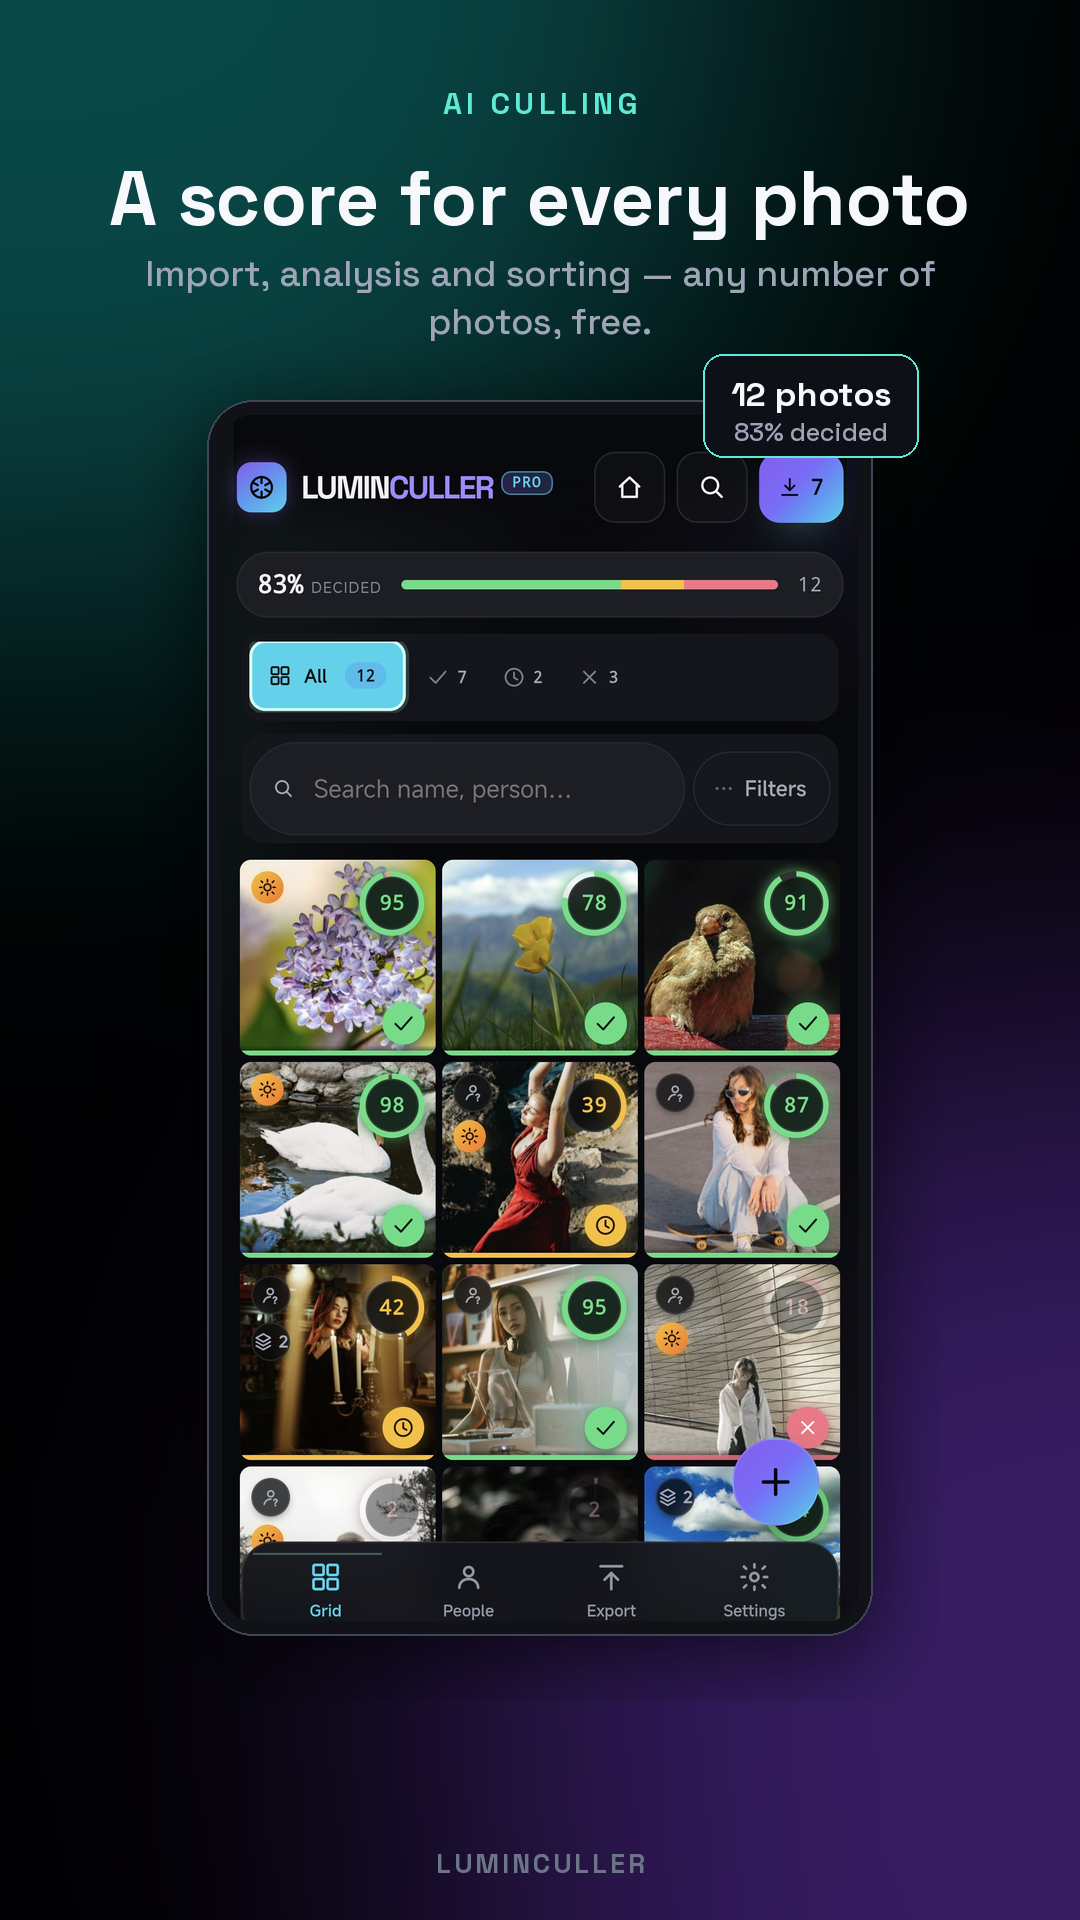
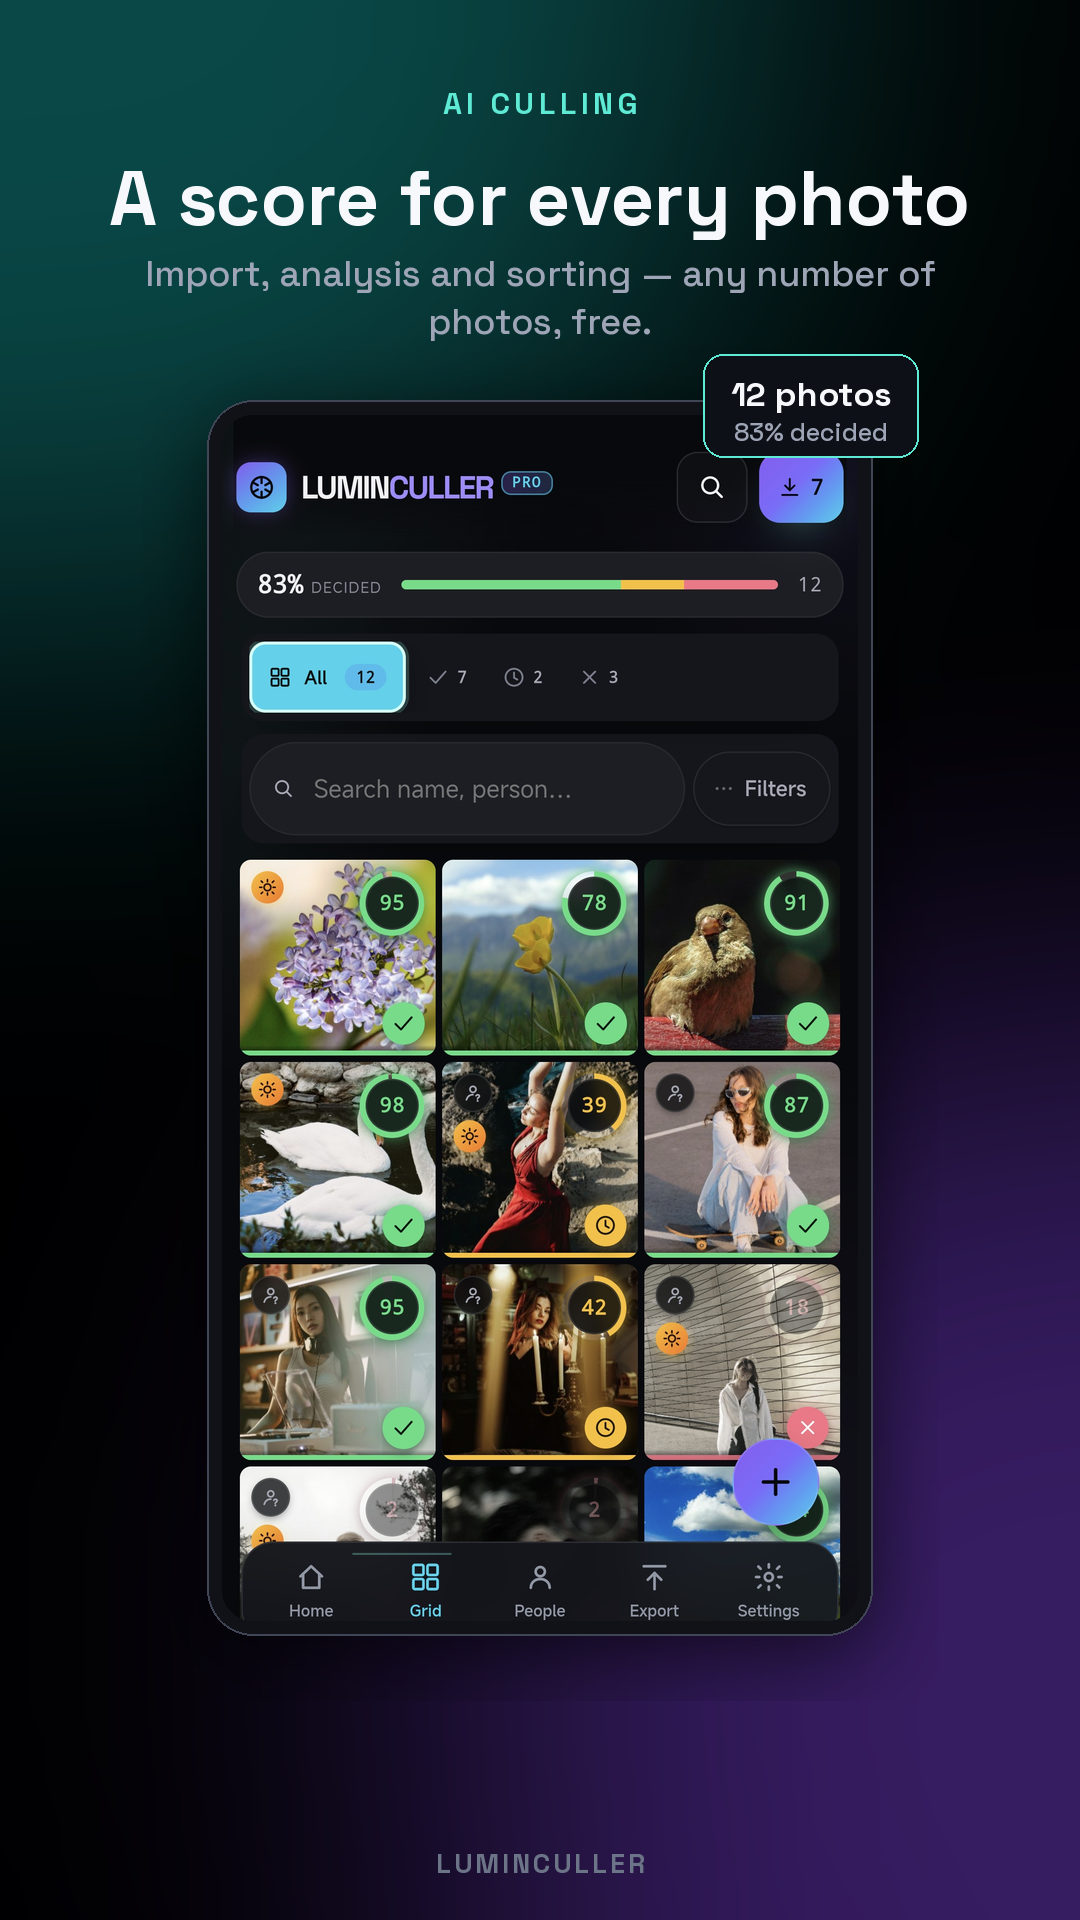
Grila, refăcută din build-ul cu "Acasă" în bara de jos
Capturile de până acum arătau bara veche, cu patru taburi și butonul "acasă"
rămas sus în antet — o interfață care nu mai există în aplicație. Nimeni n-ar fi
respins fișa pentru asta, dar cine instala vedea altceva decât în poze, și prima
impresie e exact acolo.

Arhiva de livrare nu intră în depozit: se regenerează din surse cu o comandă.

Claude-Session: https://claude.ai/code/session_0155ruC6WPAMZsMAjxbzwDqH

diff --git a/scripts/store-screenshots.py b/scripts/store-screenshots.py
@@ -258,13 +258,13 @@ def compune(sursa, eticheta, titlu, subtitlu, nume, insigna=None, limba='ro'):
 # dupa aceea vin sugestiile si editorul, care sunt argumente pentru cineva deja
 # interesat, nu carlige pentru cineva care deruleaza.
 SURSE_RO = {
-    'grila': 'd33e3e66-image.jpg', 'cauze': 'b036489f-image.jpg',
+    'grila': '7d2bfce7-image.jpg', 'cauze': 'b036489f-image.jpg',
     'decizie': 'e7485339-image.jpg', 'dece': '7214895d-image.jpg',
     'sugestii': '05d77a1c-image.jpg', 'editor': 'c5aedc4f-image.jpg',
     'privat': 'd45e2b35-image.jpg', 'splash': '429b319a-image.jpg'
 }
 SURSE_EN = {
-    'grila': '21b1cf92-image.jpg', 'cauze': '35bb9c3c-image.jpg',
+    'grila': 'ac135e57-image.jpg', 'cauze': '35bb9c3c-image.jpg',
     'decizie': '92f1ffb3-image.jpg', 'dece': 'dd22cba7-image.jpg',
     'sugestii': 'ceb58953-image.jpg', 'editor': '4179a11f-image.jpg',
     'privat': '2bfb67d4-image.jpg', 'splash': '3cfca619-image.jpg'
